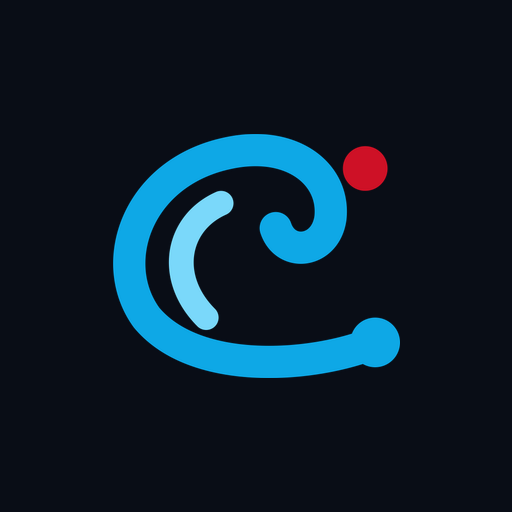
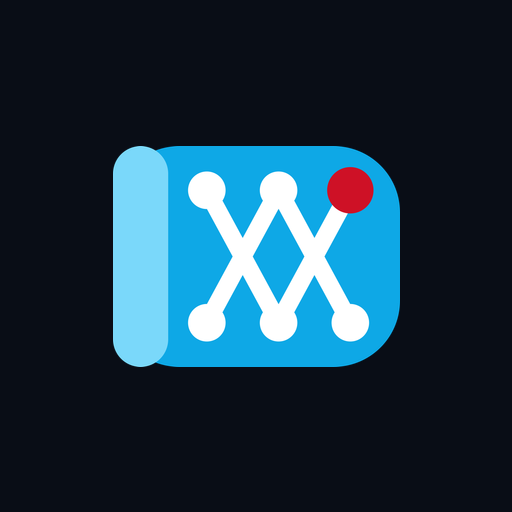
Replace the wave mark with the tambora mark
The community mark becomes a tambora, the merengue drum: its crossed
lacing reads as a network of nodes. public/brand/icon.svg is a simplified
drum for the favicon, app icons and avatar, since the full lacing blurs
below 32px. The event placeholder and OG images keep the full mark.

Updates the brand-identity-assets spec, design and tasks to match and
bumps _ds/style-guide to the same assets (cloudnativesdq/style-guide#2).

Changed region(s): [[0.2188, 0.25, 0.7812, 0.75]]

diff --git a/src/components/BrandLockup.tsx b/src/components/BrandLockup.tsx
@@ -6,10 +6,14 @@ export default function BrandLockup({ className }: { className?: string }) {
   return (
     <span className={cn("flex items-center gap-2 font-heading font-bold tracking-tight", className)}>
       <svg viewBox="0 0 64 64" fill="none" aria-hidden="true" focusable="false" className="w-8 h-8 shrink-0">
-        <path d="M57 47C45 52 21 54 11 42C3 31 9 13 27 9C40 6 49 13 48 22C47 29 39 30 37 24" stroke="#0ea8e6" strokeWidth="6.5" strokeLinecap="round" />
-        <path d="M23 42C15 34 17 23 26 19" stroke="#7ad8fa" strokeWidth="5" strokeLinecap="round" />
-        <circle cx="57" cy="47" r="5" fill="#0ea8e6" />
-        <circle cx="55" cy="12" r="4.5" fill="#ce1126" />
+        <path d="M10 16C24.7 10.9 39.3 10.9 54 16V48C39.3 53.1 24.7 53.1 10 48Z" fill="#0ea8e6" />
+        <ellipse cx="10" cy="32" rx="4.8" ry="16" fill="#7ad8fa" />
+        <path d="M14.8 20L23.4 44L32 20L40.6 44L49.2 20M14.8 44L23.4 20L32 44L40.6 20L49.2 44" stroke="#ffffff" strokeWidth="2" strokeLinejoin="round" strokeLinecap="round" />
+        <g fill="#ffffff">
+          {[14.8, 23.4, 32, 40.6, 49.2].map((x) => <circle key={`t${x}`} cx={x} cy="20" r="2.4" />)}
+          {[14.8, 23.4, 32, 40.6].map((x) => <circle key={`b${x}`} cx={x} cy="44" r="2.4" />)}
+        </g>
+        <circle cx="49.2" cy="44" r="3" fill="#ce1126" />
       </svg>
       {/* Two lines on phones, one from sm up. The space keeps the accessible name "Cloud Native Santo Domingo". */}
       <span className="flex flex-col leading-none sm:flex-row sm:gap-[0.25em] sm:leading-tight whitespace-nowrap">

diff --git a/openspec/changes/brand-identity-assets/specs/brand-identity/spec.md b/openspec/changes/brand-identity-assets/specs/brand-identity/spec.md
@@ -7,18 +7,25 @@ Defines the Cloud Native Santo Domingo mark, its approved variants and lockup, w
 ## ADDED Requirements
 
 ### Requirement: Mark vector source
-The repository SHALL contain the approved wave mark as an SVG with a 64x64 viewBox, using cyan `#0ea8e6` for the curl and end node, light cyan `#7ad8fa` for the inner swell and vermillion `#ce1126` for the crest dot. Every raster brand asset SHALL be generated from this file.
+The repository SHALL contain the approved tambora mark (the merengue drum) as an SVG with a 64x64 viewBox, using cyan `#0ea8e6` for the barrel, light cyan `#7ad8fa` for the drum head, white `#ffffff` for the crossed lacing and its nodes, and vermillion `#ce1126` for one lacing node. Every raster brand asset SHALL be generated from this file or from the small-size icon.
 
 #### Scenario: Source file present and unchanged in color
 - **WHEN** a reviewer opens the mark SVG
-- **THEN** its viewBox is `0 0 64 64` and its only fills and strokes are `#0ea8e6`, `#7ad8fa` and `#ce1126`
+- **THEN** its viewBox is `0 0 64 64` and its only fills and strokes are `#0ea8e6`, `#7ad8fa`, `#ffffff` and `#ce1126`
 
 #### Scenario: Rasters trace back to the source
-- **WHEN** the icon generation command runs after the SVG changes
-- **THEN** every brand PNG and the ICO are rewritten from the SVG with no manual editing step
+- **WHEN** the icon generation command runs after either SVG changes
+- **THEN** every brand PNG and the ICO are rewritten from the SVGs with no manual editing step
+
+### Requirement: Small-size icon source
+The repository SHALL contain a simplified icon of the same drum at `public/brand/icon.svg` (64x64 viewBox, same four colors, at most five lacing nodes plus the vermillion node) for favicons, app icons and avatars, where the full mark's lacing blurs.
+
+#### Scenario: Favicon reads at 16px
+- **WHEN** the favicon is rendered at 16x16
+- **THEN** it is generated from `icon.svg` and the lacing crossing and vermillion node are distinguishable
 
 ### Requirement: One-color mark variant
-The repository SHALL contain a one-color variant of the mark that uses `currentColor` for every shape, so it takes the color of the surrounding text.
+The repository SHALL contain a one-color variant of the mark that uses `currentColor` for every shape, so it takes the color of the surrounding text. The lacing is knocked out of the drum so it stays visible in one ink.
 
 #### Scenario: Variant follows text color
 - **WHEN** the one-color SVG is inlined inside an element with `color: #ffffff`
@@ -99,7 +106,7 @@ Brand assets SHALL NOT place heritage ultramarine `#002d72` directly adjacent to
 
 #### Scenario: Icon on navy background
 - **WHEN** a generated icon places the mark on a navy background
-- **THEN** the vermillion dot touches only navy, never ultramarine
+- **THEN** the vermillion node touches only the mark's own cyan or white, or navy, never ultramarine
 
 ### Requirement: Accent tokens meet contrast floor
 Text on the accent color SHALL have a contrast ratio of at least 4.5:1 in both themes. The dark theme `--text-on-accent` SHALL be `#04202f` on accent `#0ea8e6`. The light theme `--accent` SHALL be `#0369a1` with white text, and the light `--accent-hover` SHALL differ from `--accent`. The site stylesheet and the design-system tokens SHALL hold the same values.

diff --git a/openspec/changes/brand-identity-assets/design.md b/openspec/changes/brand-identity-assets/design.md
@@ -18,7 +18,7 @@
 
 **Non-Goals:**
 - Open Graph images (change `social-preview-images`) and JSON-LD rewrites (change `seo-metadata-fixes`). This change only repoints `links.siteLogo` because it deletes the file that link targets.
-- Redrawing the mark. The approved SVG is committed as delivered.
+- Redrawing the mark by hand in this change. The approved SVGs are committed as delivered (the tambora replaced the first wave mark after review; see `brand-kit/concepts/tambora/`).
 - Generating icons at build time.
 
 ## Decisions
@@ -32,7 +32,7 @@
 - `icon-192.png`, `icon-512.png`: mark on transparent background with 8% padding (purpose `any`). `icon-512.png` doubles as the JSON-LD Organization logo and the image fallback.
 - `icon-maskable-512.png`: opaque `#090d16`, mark scaled so its bounding box fits inside a centered circle of 80% diameter. The mark is nearly square, so a box of about 56% of the icon width fits (diagonal ≈ 0.79 × 512). The script asserts this geometry instead of eyeballing it.
 - `apple-icon.png`: 180x180, opaque `#090d16`, mark at about 70% width, flattened so no pixel is transparent (iOS fills transparency with black).
-- `favicon.ico`: sharp cannot write ICO, so the script renders 16, 32 and 48 PNGs and packs them into an ICO container (6-byte header, 16-byte directory entry per image, PNG payloads). This takes about 20 lines and needs no library. At 16px the mark is rendered directly from the SVG, with no hand-tuned pixel version: `mark-preview.png` shows the curl and dot still read at 16px.
+- `favicon.ico`: sharp cannot write ICO, so the script renders 16, 32 and 48 PNGs and packs them into an ICO container (6-byte header, 16-byte directory entry per image, PNG payloads). This takes about 20 lines and needs no library. The full tambora's nine lacing nodes blur below 32px, so every square icon (favicon, apple, 192/512, maskable, `src/app/icon.svg`) comes from `public/brand/icon.svg`, a simplified drum with two crossings that reads at 16px. The event placeholder keeps the full mark.
 
 **Lockup component.** New `src/components/BrandLockup.tsx` renders the mark as inline SVG (`aria-hidden`) followed by the text "Cloud Native Santo Domingo" in `font-heading font-bold` (Space Grotesk 700 is already self-hosted). Inline SVG avoids an extra request and layout shift. Navbar and footer wrap it in their existing `<Link href="/">`, so the link's accessible name is the text. At narrow widths the text breaks onto two lines ("Cloud Native" / "Santo Domingo") with tight leading instead of truncating; the mark keeps a fixed size. The mark stays full color in the light theme. The cyan measures 2.71:1 on white, but logos are exempt from WCAG contrast rules, and the dark navbar is the default theme.
 

diff --git a/openspec/changes/brand-identity-assets/proposal.md b/openspec/changes/brand-identity-assets/proposal.md
@@ -2,11 +2,11 @@
 
 ## Why
 
-The site has no logo of its own. The navbar and footer render a text wordmark, the favicon (`public/favicon.svg`) is a placeholder of Azure-blue squares unrelated to the community, and `public/images/logo.png` is the generic CNCF community-group template. An approved wave mark now exists, so every icon surface can carry one consistent identity. Two color tokens also fail WCAG AA contrast and are fixed in the same pass because the lockup and icons sit on them.
+The site has no logo of its own. The navbar and footer render a text wordmark, the favicon (`public/favicon.svg`) is a placeholder of Azure-blue squares unrelated to the community, and `public/images/logo.png` is the generic CNCF community-group template. An approved mark now exists, so every icon surface can carry one consistent identity. Two color tokens also fail WCAG AA contrast and are fixed in the same pass because the lockup and icons sit on them.
 
 ## What Changes
 
-- Add the approved wave mark (64x64 SVG: cyan `#0ea8e6` curl ending in a node, light cyan `#7ad8fa` inner swell, vermillion `#ce1126` dot near the crest) as the vector source, plus a one-color variant.
+- Add the approved mark as the vector source, plus a one-color variant. The first release used a wave mark; it was replaced by a tambora, the merengue drum (64x64 SVG: cyan `#0ea8e6` barrel, light cyan `#7ad8fa` head, white crossed lacing whose bends are nodes, one vermillion `#ce1126` node), with a simplified tambora icon for favicons, app icons and avatars. Iterations are in `brand-kit/concepts/tambora/`.
 - Add a lockup: mark + "Cloud Native Santo Domingo" in Space Grotesk 700. Render it in the navbar and footer instead of the "Cloud Native SDQ" text wordmark.
 - Add app icons through Next.js metadata file conventions: `src/app/icon.svg`, `src/app/favicon.ico` (16/32/48), `src/app/apple-icon.png` (180, solid navy background), 192 and 512 PNGs, a maskable 512 PNG, and `src/app/manifest.ts`.
 - Set `theme-color` through `export const viewport` in the root layout.

diff --git a/openspec/changes/brand-identity-assets/specs/app-icons/spec.md b/openspec/changes/brand-identity-assets/specs/app-icons/spec.md
@@ -7,7 +7,7 @@ Defines the icons, web app manifest and theme color that browsers, search engine
 ## ADDED Requirements
 
 ### Requirement: Browser favicon
-The site SHALL serve `/favicon.ico` containing the mark at 16x16, 32x32 and 48x48, and an SVG icon of the mark, both announced in the document head of every page.
+The site SHALL serve `/favicon.ico` containing the small-size icon at 16x16, 32x32 and 48x48, and the small-size icon as SVG, both announced in the document head of every page.
 
 #### Scenario: ICO sizes
 - **WHEN** a client fetches `/favicon.ico`
@@ -15,10 +15,10 @@ The site SHALL serve `/favicon.ico` containing the mark at 16x16, 32x32 and 48x4
 
 #### Scenario: SVG icon link
 - **WHEN** any page's HTML is fetched
-- **THEN** the head contains a `rel="icon"` link with `type="image/svg+xml"` that resolves to the mark SVG with status 200
+- **THEN** the head contains a `rel="icon"` link with `type="image/svg+xml"` that resolves to the small-size icon SVG with status 200
 
 ### Requirement: Apple touch icon
-The site SHALL serve a 180x180 PNG apple touch icon showing the mark on a solid, fully opaque navy (`#090d16`) background, announced with `rel="apple-touch-icon"`.
+The site SHALL serve a 180x180 PNG apple touch icon showing the small-size icon on a solid, fully opaque navy (`#090d16`) background, announced with `rel="apple-touch-icon"`.
 
 #### Scenario: Opaque background
 - **WHEN** a client fetches the apple touch icon

diff --git a/openspec/changes/brand-identity-assets/tasks.md b/openspec/changes/brand-identity-assets/tasks.md
@@ -49,6 +49,13 @@
 - [ ] 8.2 Deploy a preview and check the tab icon, an iOS "Add to Home Screen" icon and an Android install prompt icon on real devices
 - [ ] 8.3 As the last commit of this PR, run `pnpm exec openspec archive brand-identity-assets` so `openspec/specs/brand-identity/` and `openspec/specs/app-icons/` land on `main` with the code; verify `pnpm exec openspec validate --all --strict` passes and `openspec list --specs` shows both
 
+## 9. Tambora mark
+
+- [x] 9.1 Replace `public/brand/mark.svg` and `mark-mono.svg` with the tambora (iteration "Amarres") and add `public/brand/icon.svg` (iteration "Ícono"); mirror all three in `_ds/style-guide/assets/`
+- [x] 9.2 Point `scripts/generate-brand-icons.mjs` square icons and `src/app/icon.svg` at `icon.svg`, keep the event placeholder on `mark.svg`; run `pnpm brand:icons` and its self-checks pass
+- [x] 9.3 Update the inline paths in `BrandLockup.tsx` and regenerate `brand-kit/` with `pnpm brand:kit` (avatar uses the icon)
+- [ ] 9.4 On the preview deploy, check the tab icon, navbar lockup and `/opengraph-image` show the tambora
+
 ## Workflow follow-up
 
 - Commit `_ds/style-guide` changes in the submodule repo first, then bump the submodule pointer in this repo's PR.
